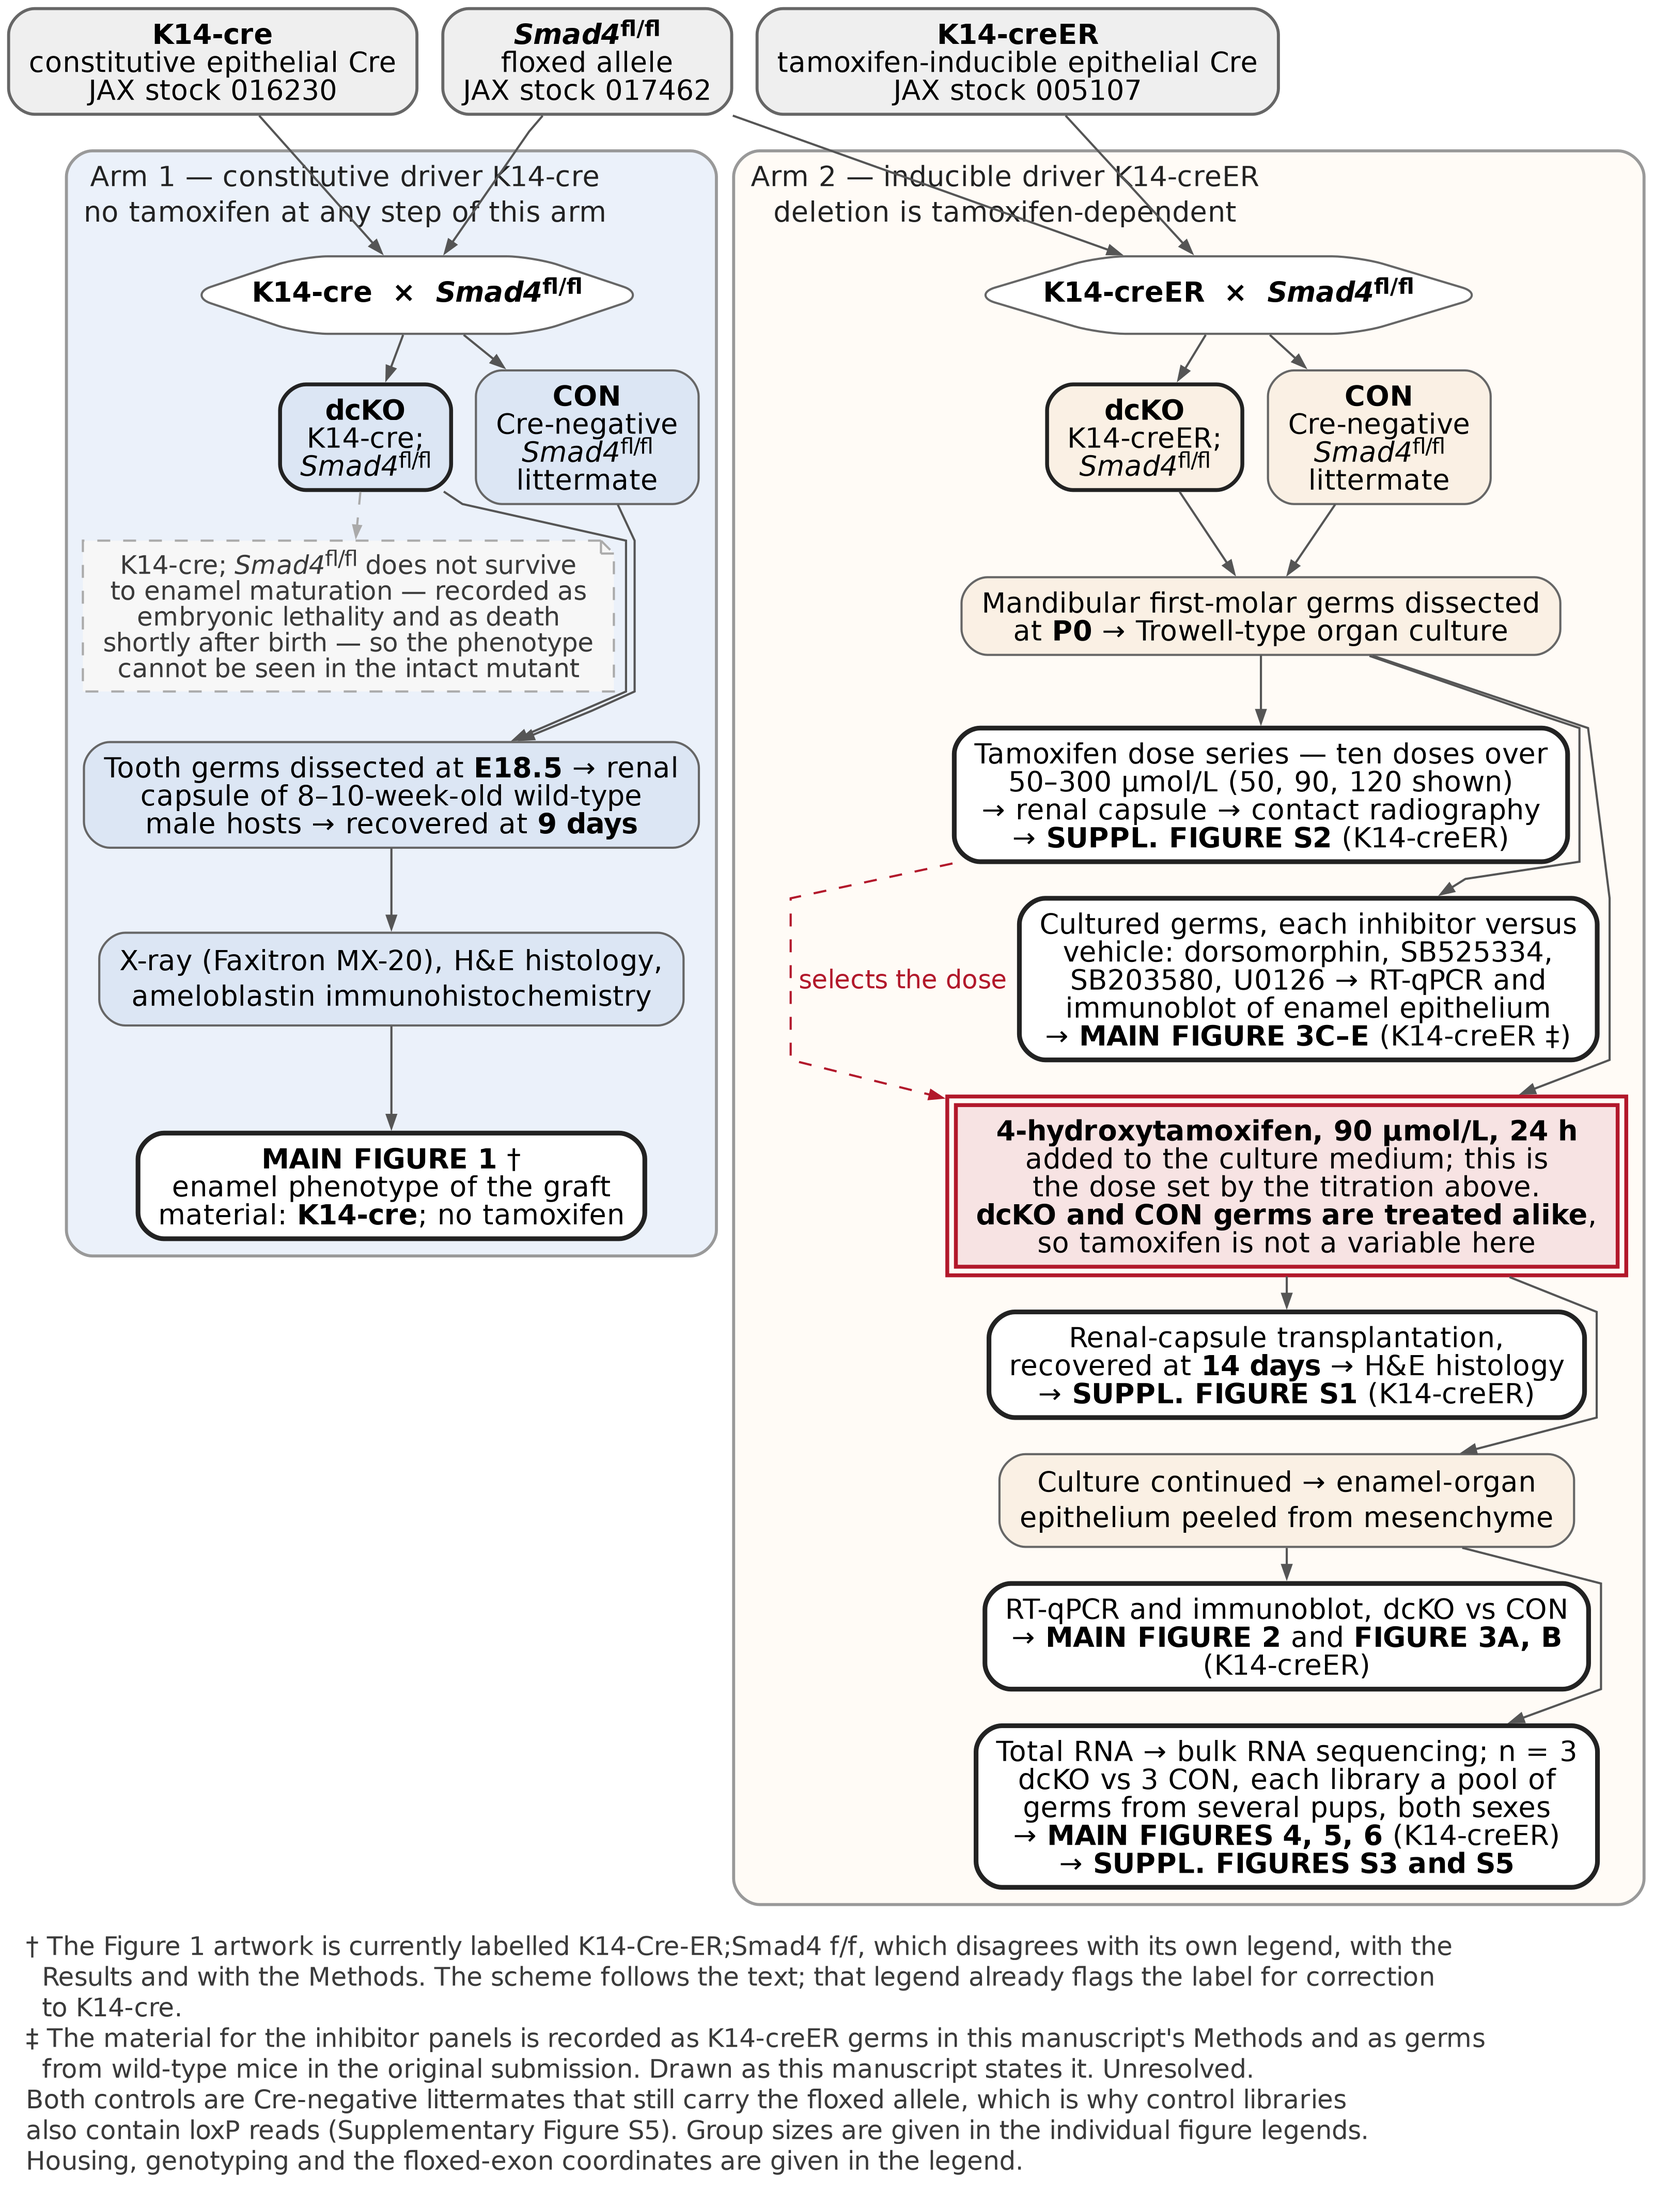
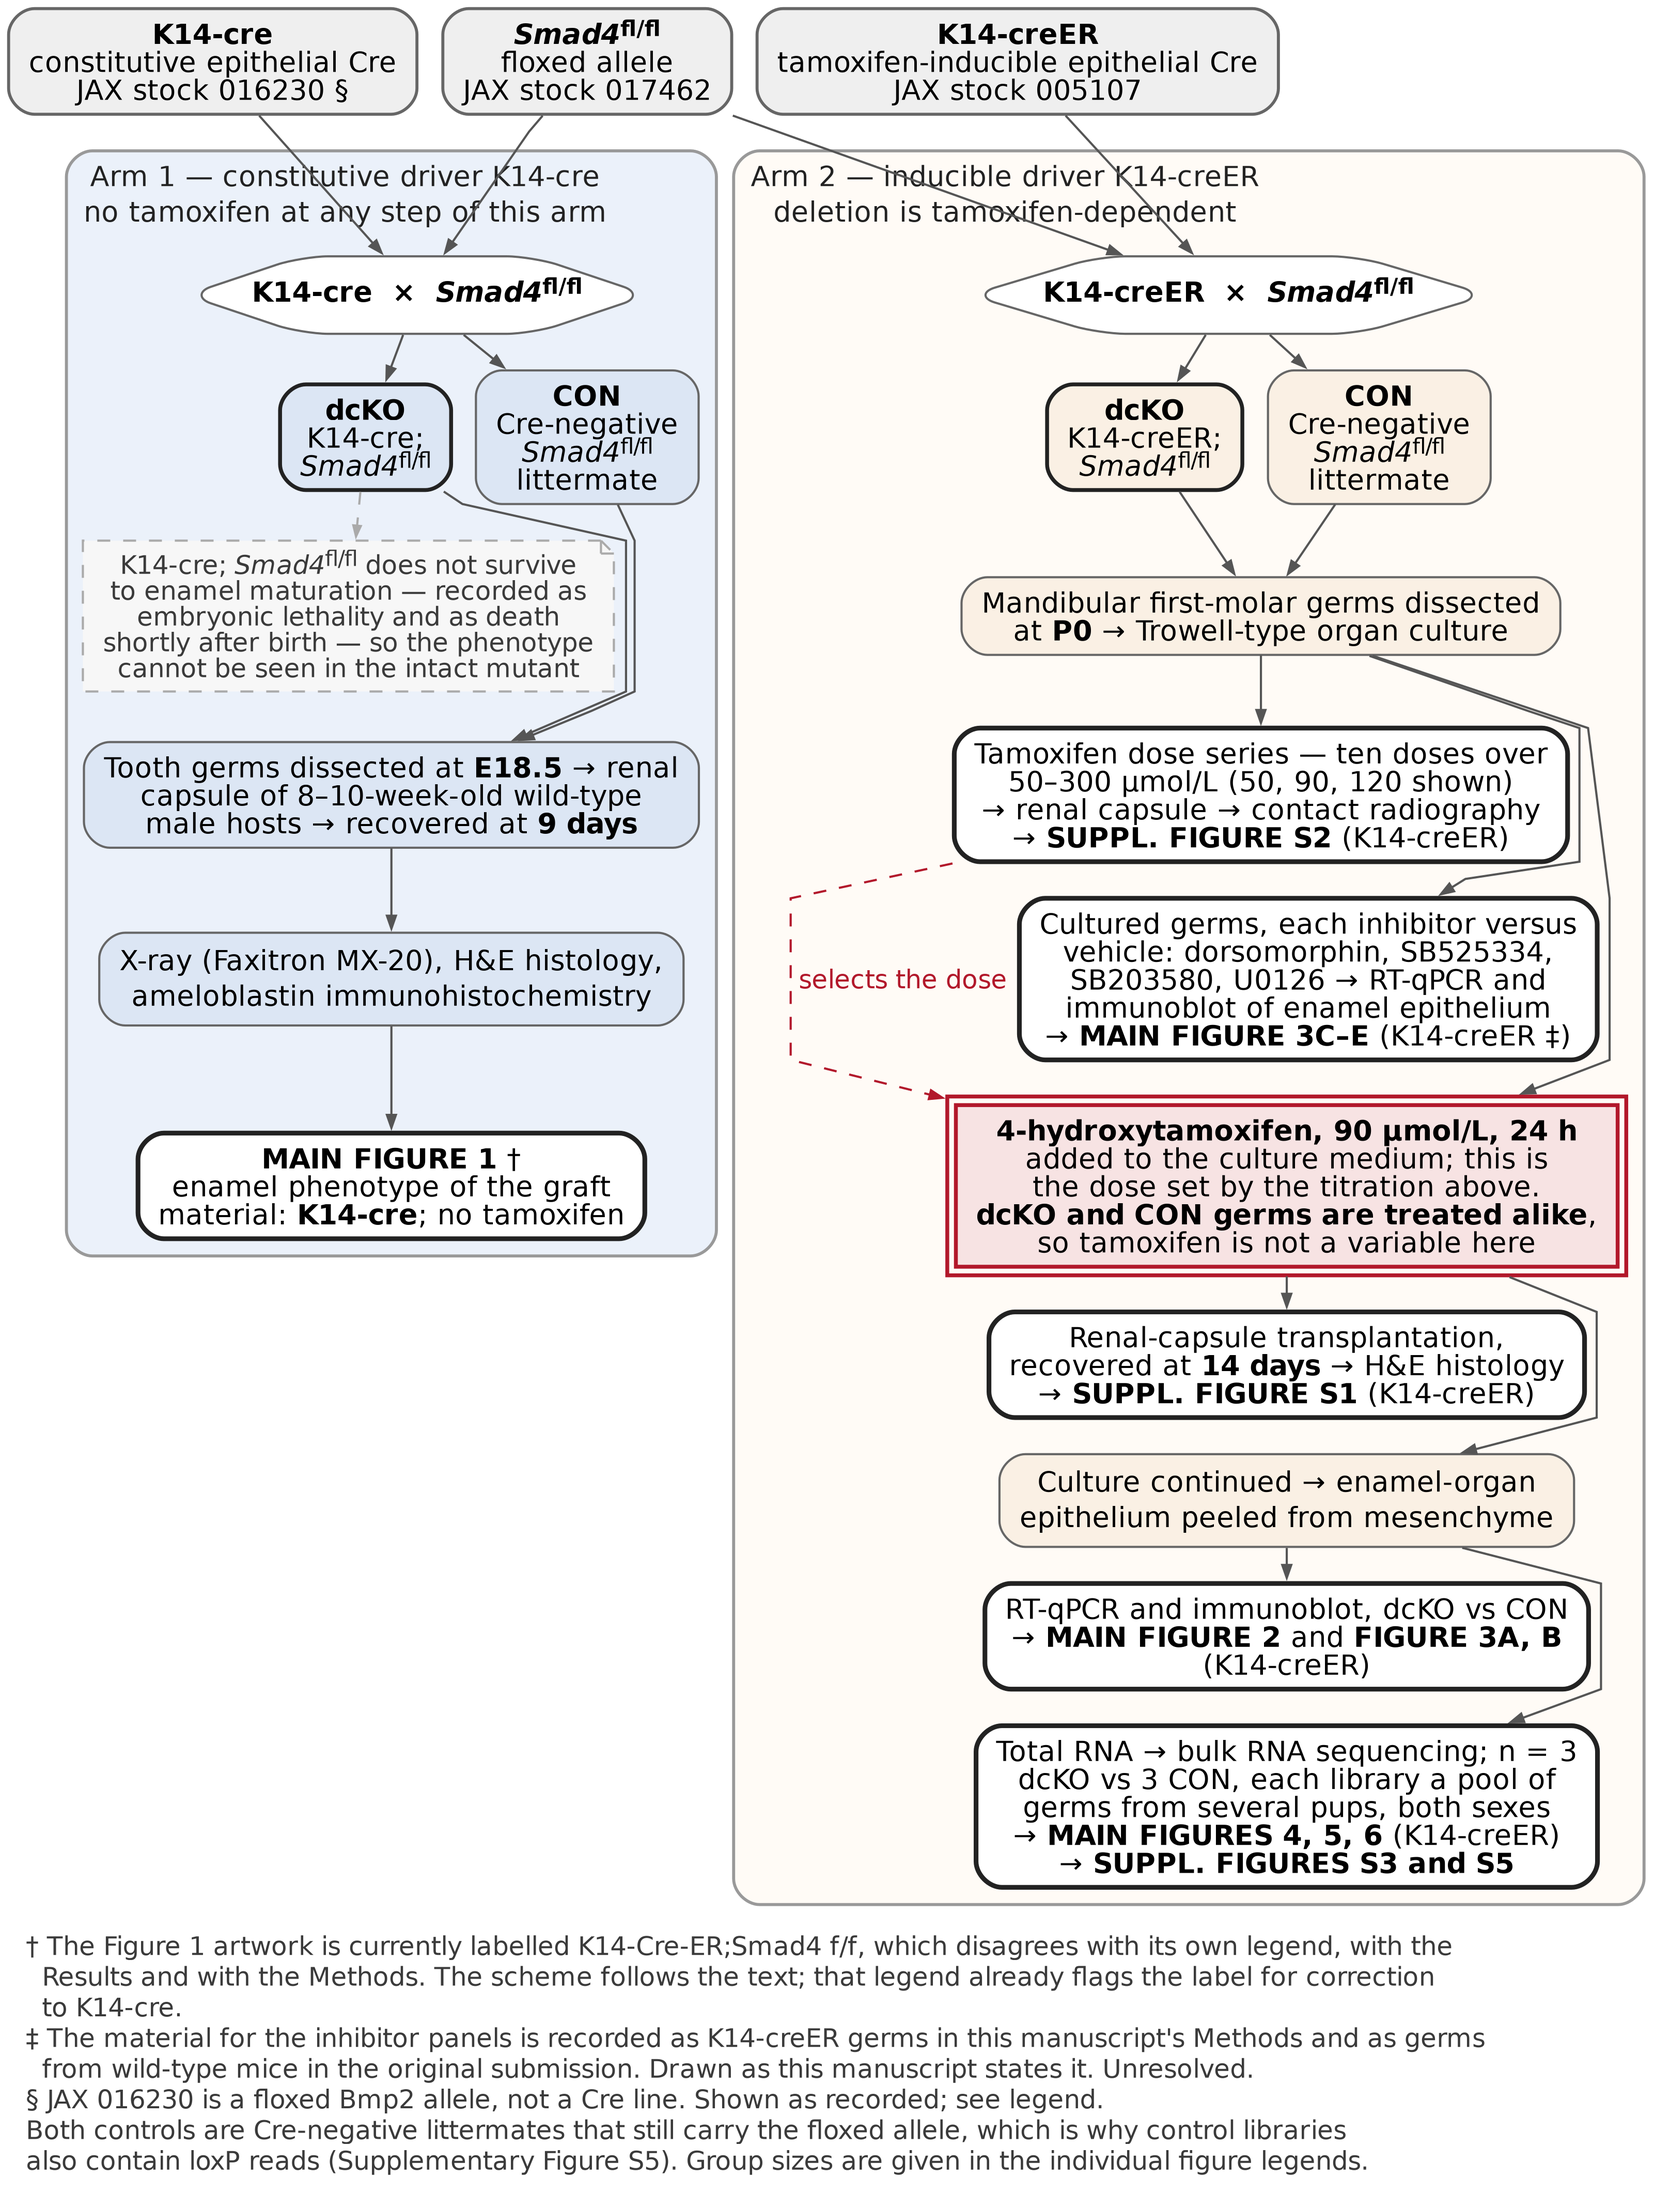
Flag the K14-cre stock number in Figure S6: JAX 016230 is a floxed Bmp2 allele, not a Cre line
Confirmed against the live Jackson Laboratory strain pages. 016230 is
B6;129S4-Bmp2(tm1Jfm)/J; the K14-cre transgene used in tooth studies is stock 004782,
Tg(KRT14-cre)1Amc. Stocks 005107 (K14-CreER) and 017462 (Smad4-Co) are correct as
recorded. Marked on the panel and explained in the legend rather than corrected -
several K14-cre lines exist and differ in recombination pattern, so only the authors'
breeding record can say which was used.

Changed region(s): [[0.0, 0.9329, 0.8122, 0.9951], [0.0625, 0.0311, 0.2187, 0.0622]]

diff --git a/pipeline/22_breeding_scheme.py b/pipeline/22_breeding_scheme.py
@@ -162,7 +162,16 @@ CROSS = 'shape=hexagon, fillcolor="white", margin="0.02,0.02"'
 NODES = [
     # --- parental lines -----------------------------------------------------
     ("LINE_CRE", "line",
-     ["**K14-cre**", "constitutive epithelial Cre", "JAX stock 016230"], LINE_BOX),
+     # The stock number the authors give for this line does not identify a Cre line.
+     # Verified against the live Jackson Laboratory strain pages on 2026-07-29:
+     #   016230 -> B6;129S4-Bmp2^tm1Jfm/J, a floxed Bmp2 allele  (NOT a Cre driver)
+     #   004782 -> Tg(KRT14-cre)1Amc, the K14-cre used throughout the tooth literature
+     #   005107 -> K14-CreER(tam)   [correct as given]
+     #   017462 -> Smad4^Co         [correct as given]
+     # Drawn with the stock number marked, not silently corrected: several K14-cre
+     # transgenic lines exist and differ in recombination pattern, so only the authors'
+     # records can say which was used.
+     ["**K14-cre**", "constitutive epithelial Cre", "JAX stock 016230 §"], LINE_BOX),
     ("LINE_FL", "line",
      ["**_Smad4_^{fl/fl}**", "floxed allele", "JAX stock 017462"], LINE_BOX),
     ("LINE_CREER", "line",
@@ -336,10 +345,10 @@ FOOTER_PARAS = [
     (f"{DDAGGER} ", "The material for the inhibitor panels is recorded as K14-creER "
      "germs in this manuscript's Methods and as germs from wild-type mice in the "
      "original submission. Drawn as this manuscript states it. Unresolved."),
+    ("§ ", "JAX 016230 is a floxed Bmp2 allele, not a Cre line. Shown as recorded; see legend."),
     ("", "Both controls are Cre-negative littermates that still carry the floxed "
      "allele, which is why control libraries also contain loxP reads (Supplementary "
-     "Figure S5). Group sizes are given in the individual figure legends. Housing, "
-     "genotyping and the floxed-exon coordinates are given in the legend."),
+     "Figure S5). Group sizes are given in the individual figure legends."),
 ]
 
 

diff --git a/pipeline/15_build_supplementary_docx.py b/pipeline/15_build_supplementary_docx.py
@@ -103,11 +103,15 @@ FIGURES = [
      "sequencing behind Figures 4–6 and Supplementary Figures S3 and S5. The E16.5 dissection "
      "in the Methods feeds no figure and is not drawn. Group sizes are given in the "
      "individual figure legends. "
-     "*Two points marked on the panel are unresolved: † the current Figure 1 artwork is labelled "
+     "*Three points marked on the panel are unresolved: † the current Figure 1 artwork is labelled "
      "K14-Cre^ER^;Smad4^f/f^, contradicting its own legend, the Results and the Methods; and "
      "‡ the inhibitor panels (Figure 3C–E) are placed in the K14-creER arm by the Methods but "
-     "recorded as wild-type germs in the original submission. Both are drawn as the Methods "
-     "state them; neither is settled here.*"),
+     "recorded as wild-type germs in the original submission; and § the stock number recorded "
+     "for K14-cre, 016230, is not a Cre line — Jackson Laboratory 016230 is "
+     "B6;129S4-*Bmp2*^tm1Jfm^/J, a floxed *Bmp2* allele, whereas the K14-cre transgene used in "
+     "tooth studies is stock 004782, Tg(KRT14-cre)1Amc (stocks 005107 and 017462 were checked "
+     "and are correct). All three are drawn as recorded rather than corrected; none is settled "
+     "here, and each needs the laboratory's own breeding record.*"),
 ]
 
 DATA_TABLE = """
